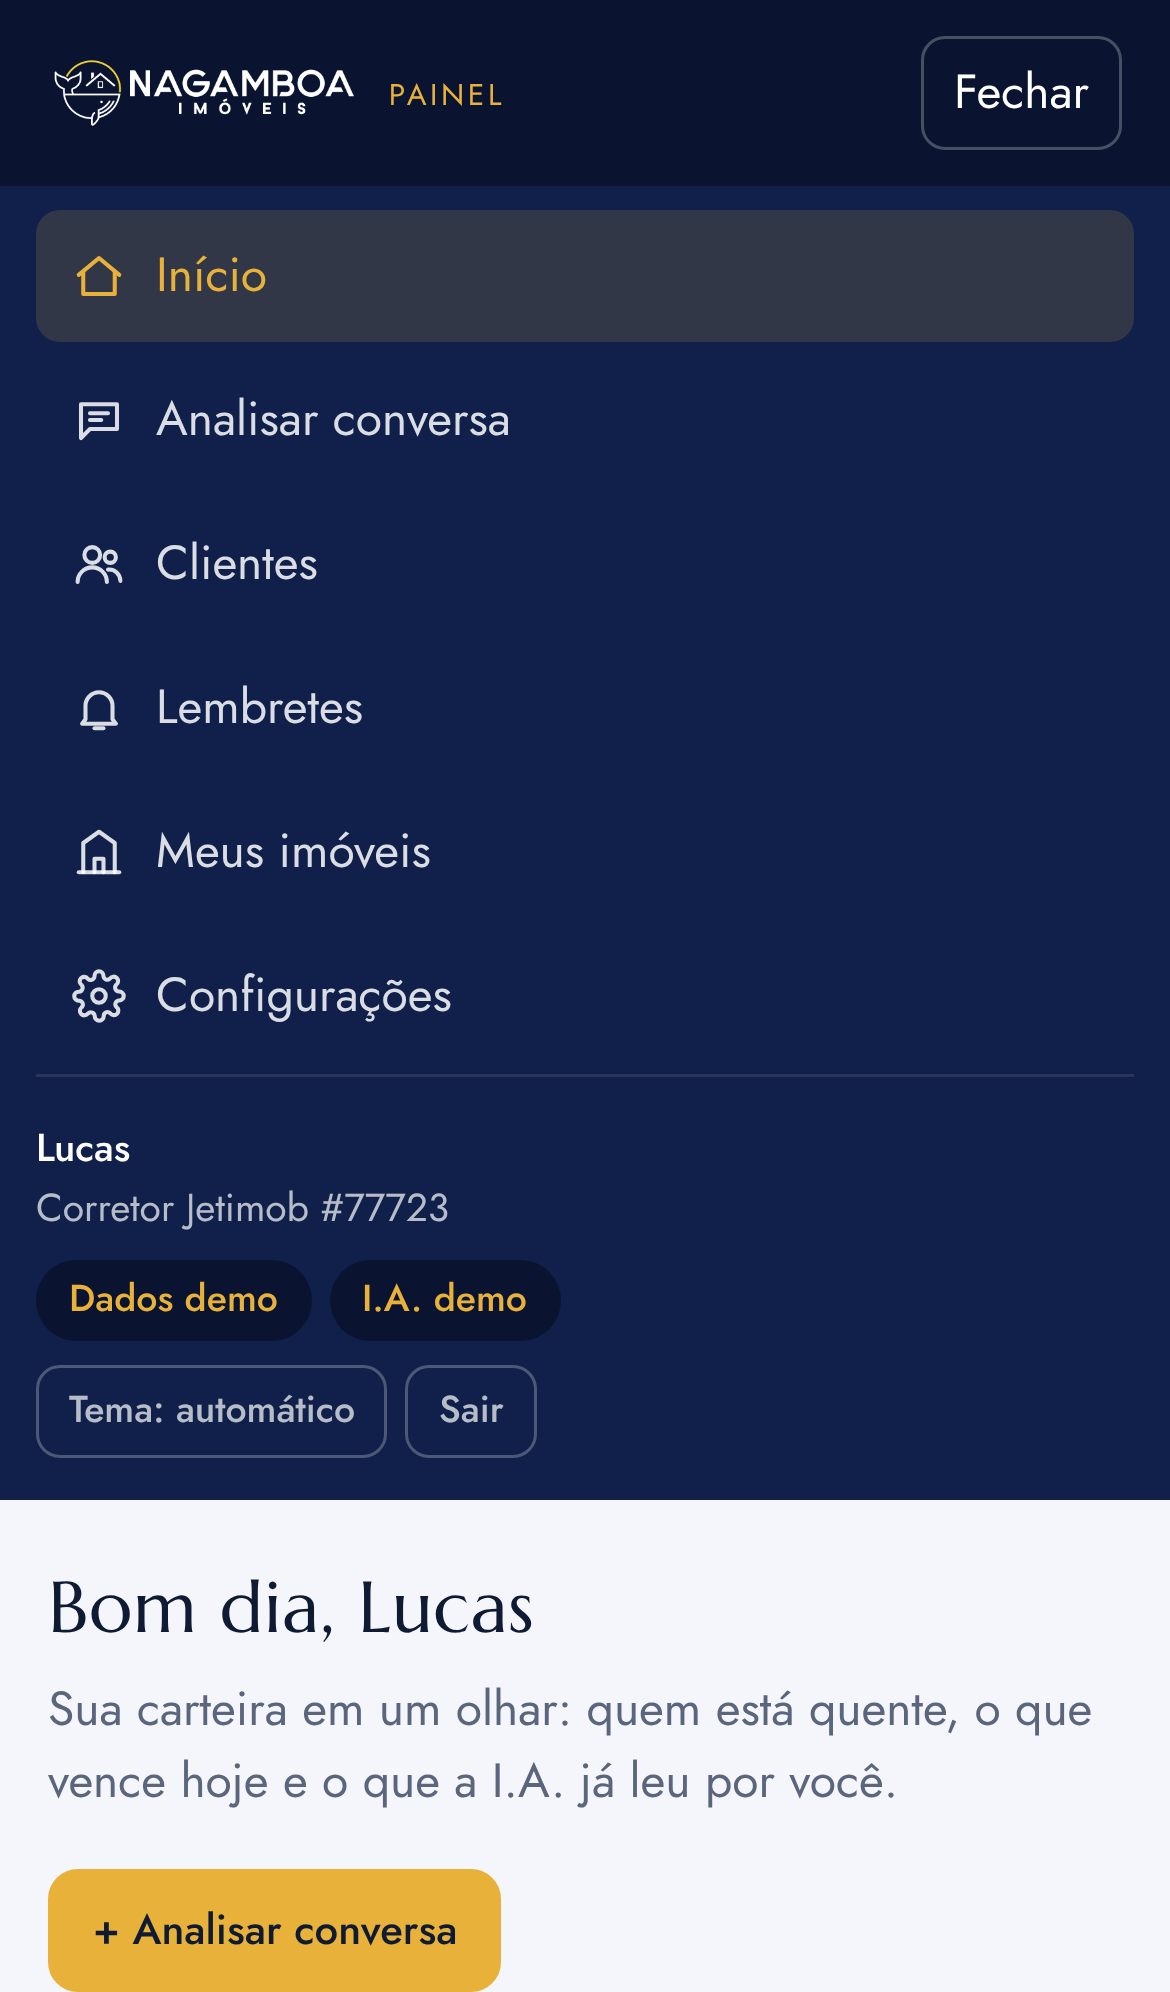
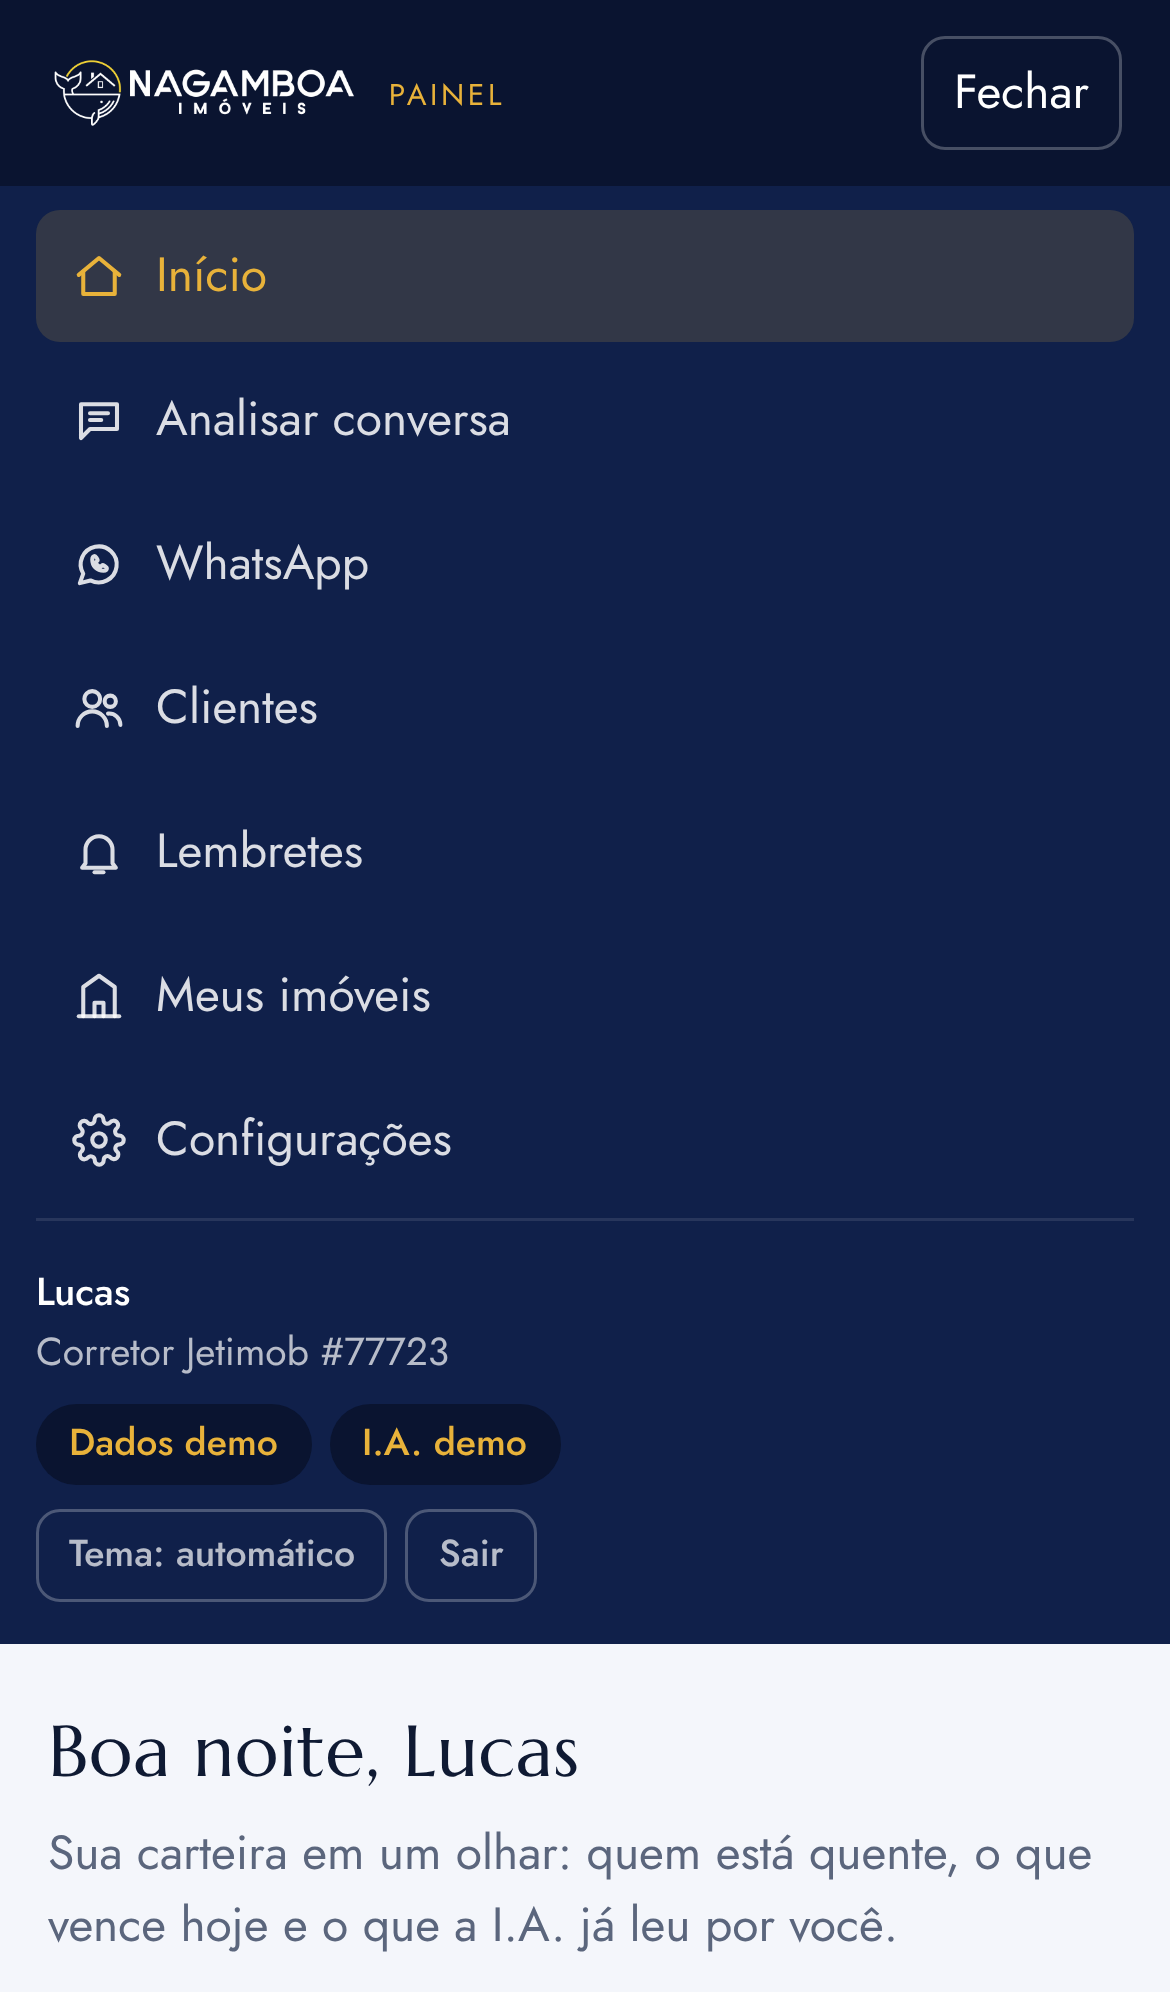
docs(painel): documentacao e QA da ponte do WhatsApp
Claude-Session: https://claude.ai/code/session_019QZGFfoLov9zRbBeaVy5hX

diff --git a/docs/painel/whatsapp.md b/docs/painel/whatsapp.md
@@ -1,0 +1,166 @@
+# Ponte do WhatsApp (somente leitura)
+
+Liga o seu WhatsApp ao Painel do Corretor. As conversas entram sozinhas no
+painel, a I.A. analisa quando você pedir, e cada contato vira uma ficha de
+cliente com temperatura, fatos e lembretes.
+
+**O painel nunca envia mensagem.** Você continua respondendo pelo WhatsApp
+de sempre, no celular ou no WhatsApp Web. Isso é uma decisão de projeto, não
+uma limitação técnica, e está explicada na seção de risco abaixo.
+
+## Como funciona
+
+```
+WhatsApp  ──QR──▶  servicos/whatsapp   ──HTTP (token)──▶  /api/painel/whatsapp/*
+ (celular)         (Railway, sempre on)                   (Vercel)  ──▶ Supabase
+```
+
+O serviço da ponte usa a biblioteca Baileys, que fala o mesmo protocolo do
+WhatsApp Web. Ele não guarda nada: repassa ao painel, e o painel grava no
+Supabase. Até a sessão do WhatsApp fica no painel, para o serviço reiniciar
+sem você precisar parear de novo.
+
+O que a ponte captura:
+
+- mensagens recebidas e as que você envia pelo celular, em conversas de pessoa;
+- texto. Foto, áudio e documento viram uma marcação curta, como `[áudio]`,
+  para a conversa não ficar com buracos.
+
+O que ela ignora de propósito: grupos, listas de transmissão, status,
+mensagens antigas (só vale o que chega depois de conectar) e reações.
+
+E o que ela nunca faz: enviar mensagem, entrar em grupo, marcar conversa como
+lida ou aparecer como online. Suas notificações continuam indo normalmente
+para o celular.
+
+## O risco, em uma linha
+
+Isso usa uma biblioteca não oficial e fere os termos de uso do WhatsApp. Há
+risco de bloqueio do número. O risco é bem menor neste formato, porque o que
+costuma derrubar número é disparo em massa e mensagem para quem nunca
+procurou você, e aqui não existe nenhum envio. Mas não é zero, e o número é a
+sua carteira. A decisão de usar é sua, com os olhos abertos.
+
+O caminho oficial, sem esse risco, é a Cloud API do WhatsApp Business com o
+modo Coexistence, que permite manter o mesmo número no celular. É mais
+trabalhoso, exige empresa verificada na Meta e tem custo por mensagem. Está no
+roteiro, caso um dia valha a troca.
+
+## Instalação
+
+### 1. Criar o token compartilhado
+
+É a senha entre a ponte e o painel. Gere um valor aleatório:
+
+```bash
+openssl rand -hex 32
+```
+
+### 2. Aplicar a migration no Supabase
+
+No Supabase, em SQL Editor, New query, cole e rode o arquivo
+`supabase/migrations/20261103120000_painel_whatsapp.sql`. Ele cria quatro
+tabelas: `whatsapp_estado`, `whatsapp_sessao`, `whatsapp_chats` e
+`whatsapp_mensagens`.
+
+### 3. Configurar o painel na Vercel
+
+Em Settings, Environment Variables, adicione, marcando Production e Preview:
+
+| Variável | Valor |
+| --- | --- |
+| `PAINEL_WHATSAPP_TOKEN` | o token do passo 1 |
+
+Faça Redeploy. Sem essa variável a tela `/painel/whatsapp` avisa que a ponte
+não está configurada e as rotas da ponte respondem 503.
+
+### 4. Subir o serviço no Railway
+
+1. Em railway.app, New Project, Deploy from GitHub repo, escolha
+   `gfloripa-site`.
+2. Em Settings do serviço, defina **Root Directory** como `servicos/whatsapp`.
+   Isso faz o Railway instalar e rodar só a ponte, não o site.
+3. O comando de start já vem do `package.json` (`npm start`). Não precisa mexer.
+4. Em Variables, adicione:
+
+| Variável | Valor |
+| --- | --- |
+| `PAINEL_URL` | `https://www.nagamboaimoveis.com.br` |
+| `PAINEL_WHATSAPP_TOKEN` | o mesmo token do passo 1 |
+
+5. Opcional: `LOG_LEVEL=info` para ver mais detalhe nos registros, e
+   `INTERVALO_ENVIO_MS` para mudar o agrupamento de mensagens (padrão 3000 ms).
+
+O serviço abre uma porta de saúde que responde em `/` com o estado da
+conexão. O Railway usa isso para saber que está vivo.
+
+### 5. Parear o celular
+
+Abra `/painel/whatsapp` no painel. Em até um minuto o código QR aparece.
+No celular: WhatsApp, três pontinhos, Aparelhos conectados, Conectar um
+aparelho, e aponte para o código. O status vira Conectado e as conversas
+começam a entrar conforme chegam mensagens novas.
+
+Se o código expirar, a tela busca outro sozinha.
+
+## Uso no dia a dia
+
+Na tela `/painel/whatsapp` cada conversa mostra o nome do contato, quantas
+mensagens já foram capturadas e a última delas. O botão **Analisar** monta a
+transcrição e manda para a I.A., exatamente como se você tivesse colado o
+texto na tela de análise. O resultado é o mesmo: temperatura, fatos, insights,
+próxima mensagem, nota para o Jetimob e lembretes.
+
+Depois da primeira análise, a conversa fica ligada à ficha do cliente. As
+análises seguintes caem na mesma ficha, e a evolução da temperatura aparece
+na página dele.
+
+**Arquivar** tira a conversa da lista, para contatos pessoais e grupos de
+amigos não poluírem o painel. Nada é apagado.
+
+## Custo
+
+Railway cobra por uso; um serviço pequeno como esse fica na casa de cinco
+dólares por mês. Cada análise da I.A. custa o mesmo de sempre, entre três e
+cinco centavos de dólar, e só acontece quando você clica em Analisar. A
+captura das mensagens em si não custa nada de I.A.
+
+## Privacidade (LGPD)
+
+A ponte transporta conversas de clientes, que são dados pessoais. Pontos de
+atenção:
+
+- O serviço não grava nada em disco; tudo vai para o seu Supabase.
+- A tabela `whatsapp_sessao` guarda as credenciais da sua conta do WhatsApp.
+  Trate como segredo: quem tiver acesso a ela pode ler suas conversas.
+- As rotas da ponte são autenticadas por token, e as telas, por login.
+- Vale citar a finalidade na política de privacidade do site.
+
+## Problemas comuns
+
+**O código QR não aparece.** O serviço não está no ar, ou `PAINEL_URL` e
+`PAINEL_WHATSAPP_TOKEN` não batem entre o Railway e a Vercel. Veja os
+registros no Railway: a ponte imprime o motivo.
+
+**Status fica em Conectando e volta para Desconectado.** Normalmente é sessão
+inválida. Desconecte o aparelho pelo celular, em Aparelhos conectados, e
+pareie de novo.
+
+**Conectou mas não chega mensagem.** Só entram mensagens novas, a partir do
+pareamento. Mande uma mensagem de teste para você mesmo de outro número.
+
+**Mensagens duplicadas.** Não acontece: o painel ignora pelo id da mensagem no
+WhatsApp.
+
+## Verificação
+
+Com o painel rodando em modo demonstração e o token configurado:
+
+```bash
+node scripts/qa-whatsapp.mjs http://localhost:3000 token-de-teste
+```
+
+São 23 verificações cobrindo recusa sem token, gravação de estado e sessão,
+descarte de grupos e mensagens vazias, bloqueio de duplicadas, análise de uma
+conversa e vínculo com a ficha do cliente. O `scripts/qa-painel.mjs` cobre a
+tela.

diff --git a/docs/painel/README.md b/docs/painel/README.md
@@ -20,6 +20,7 @@ Funciona em três situações, sem quebrar o site público em nenhuma delas:
 | --- | --- | --- |
 | `/painel/login` | Senha única, cookie de sessão assinado (14 dias). | `capturas/01-login.png` |
 | `/painel` | Dashboard: leads por temperatura, lembretes de hoje e atrasados, análises na semana, clientes ordenados por temperatura, últimas análises. | `capturas/02-dashboard.png`, `08-dashboard-escuro.png` |
+| `/painel/whatsapp` | Ponte com o WhatsApp: código QR, status da conexão e conversas capturadas, com botão para analisar cada uma. Somente leitura, nunca envia. Ver `whatsapp.md`. | `capturas/10-whatsapp.png`, `11-whatsapp-analise.png` |
 | `/painel/analisar` | Formulário (texto ou arquivo .txt/.md/.pdf, nome, telefone, código do imóvel, tipo, data da conversa) e resultado em cards com botão copiar e "criar lembrete". | `capturas/03-analise.png` |
 | `/painel/clientes` e `/painel/clientes/[id]` | Lista da carteira; página do cliente com fatos consolidados, evolução da temperatura, imóveis de interesse (dados do Jetimob quando há chave), lembretes e linha do tempo. | `capturas/04-cliente.png` |
 | `/painel/analises/[id]` | Uma análise salva, com a conversa original. | |
@@ -47,8 +48,12 @@ src/app/api/painel/
   clientes                           listar / cadastro manual
   padrao                             ler / salvar o padrão de atendimento
   jetimob/enviar                     envio ao Jetimob (atrás de flag)
+servicos/whatsapp/                   ponte do WhatsApp (fora da Vercel, ver whatsapp.md)
 src/lib/painel/
   auth.ts, sessao.ts                 senha, HMAC (Web Crypto), corretor logado
+  whatsapp-token.ts                  autenticação por token das rotas da ponte
+  registrar-analise.ts               fluxo compartilhado "analisar e guardar"
+  transcricao.ts                     mensagens do WhatsApp viram transcrição
   db.ts                              interface PainelDb + fábrica (Supabase ou memória)
   db-supabase.ts                     PostgREST via fetch (service role, só no servidor)
   db-memoria.ts                      memória + JSON local (.painel-dados/, ignorado pelo git)
@@ -106,6 +111,7 @@ Environment Variables (variável nova exige Redeploy).
 | `PAINEL_ANTHROPIC_EFFORT` | não (padrão `medium`) | Esforço de raciocínio: `low`, `medium`, `high`. |
 | `PAINEL_DEMO` | não | `1` libera a senha `demo` mesmo em produção (só para preview). |
 | `PAINEL_JETIMOB_ENVIO` | não | `1` ativa o botão "Enviar para o Jetimob" (usa `JETIMOB_PUBLIC_KEY`/`JETIMOB_PRIVATE_KEY`). |
+| `PAINEL_WHATSAPP_TOKEN` | não | Token compartilhado com o serviço `servicos/whatsapp`. Sem ele a ponte do WhatsApp fica desligada. Ver `whatsapp.md`. |
 
 Custo estimado por análise com Sonnet 5.5: uma conversa de WhatsApp típica
 (3 a 6 mil tokens de entrada com o padrão de atendimento, 2 a 3 mil de saída)
@@ -126,8 +132,9 @@ Verificações:
 ```bash
 npm run lint
 npm run build
-npm test                 # validador da análise (node:test)
-node scripts/qa-painel.mjs   # com o servidor no ar; em modo demo (PAINEL_DEMO=1 se for next start)
+npm test                     # validador da análise (node:test)
+node scripts/qa-painel.mjs   # fluxo das telas; servidor no ar, em modo demo
+node scripts/qa-whatsapp.mjs # ponte do WhatsApp; precisa de PAINEL_WHATSAPP_TOKEN
 ```
 
 ## Aplicar as migrations no Supabase
@@ -171,8 +178,12 @@ valer na hora; a versão definitiva deve voltar para o arquivo (versionado).
   de análises com Batches da Anthropic (50% mais barato).
 - **Relatório semanal da carteira**: clientes que esfriaram, promessas não
   cumpridas, previsão de fechamento; gerado pela I.A. a partir das análises.
-- **Integração WhatsApp Business API**: captura automática das conversas,
-  sem copiar e colar.
+- **WhatsApp oficial**: migrar a ponte para a Cloud API com modo Coexistence,
+  que mantém o mesmo número no celular e elimina o risco de bloqueio. Hoje a
+  captura usa a ponte não oficial de `servicos/whatsapp` (ver `whatsapp.md`).
+- **Análise automática**: hoje a conversa capturada do WhatsApp é analisada
+  quando o corretor clica. O passo seguinte é analisar sozinha a cada tanto de
+  mensagens novas, ou quando a conversa fica parada.
 - **Jetimob**: quando a Jetimob liberar o MCP ou endpoints de escrita, ligar
   `jetimob-escrita.ts` para anotar histórico, criar tarefa e atualizar o
   funil direto no CRM (hoje só criação de lead, atrás de flag).

diff --git a/CLAUDE.md b/CLAUDE.md
@@ -44,8 +44,12 @@ Objetivo: autoridade da marca e tráfego pago no Google Ads.
   padrão de atendimento que treina a I.A. em src/painel/padrao-atendimento.md.
 - Sem PAINEL_SENHA, SUPABASE_* e ANTHROPIC_API_KEY roda em modo demo (senha
   "demo", dados de exemplo, análise fixa). Nunca pode quebrar o site público.
-- Testes: npm test (validador da análise) e node scripts/qa-painel.mjs (fluxo
-  completo com Playwright, servidor no ar).
+- Ponte do WhatsApp em servicos/whatsapp (Baileys, somente leitura, roda fora
+  da Vercel porque precisa de socket aberto). Repassa mensagens ao painel por
+  token (PAINEL_WHATSAPP_TOKEN). Nunca envia mensagem: é o que mais provoca
+  bloqueio de número. Ver docs/painel/whatsapp.md.
+- Testes: npm test (validador da análise), node scripts/qa-painel.mjs (telas,
+  Playwright) e node scripts/qa-whatsapp.mjs (ponte), com o servidor no ar.
 
 ## Variáveis de ambiente (.env.local, NUNCA commitar)
 
